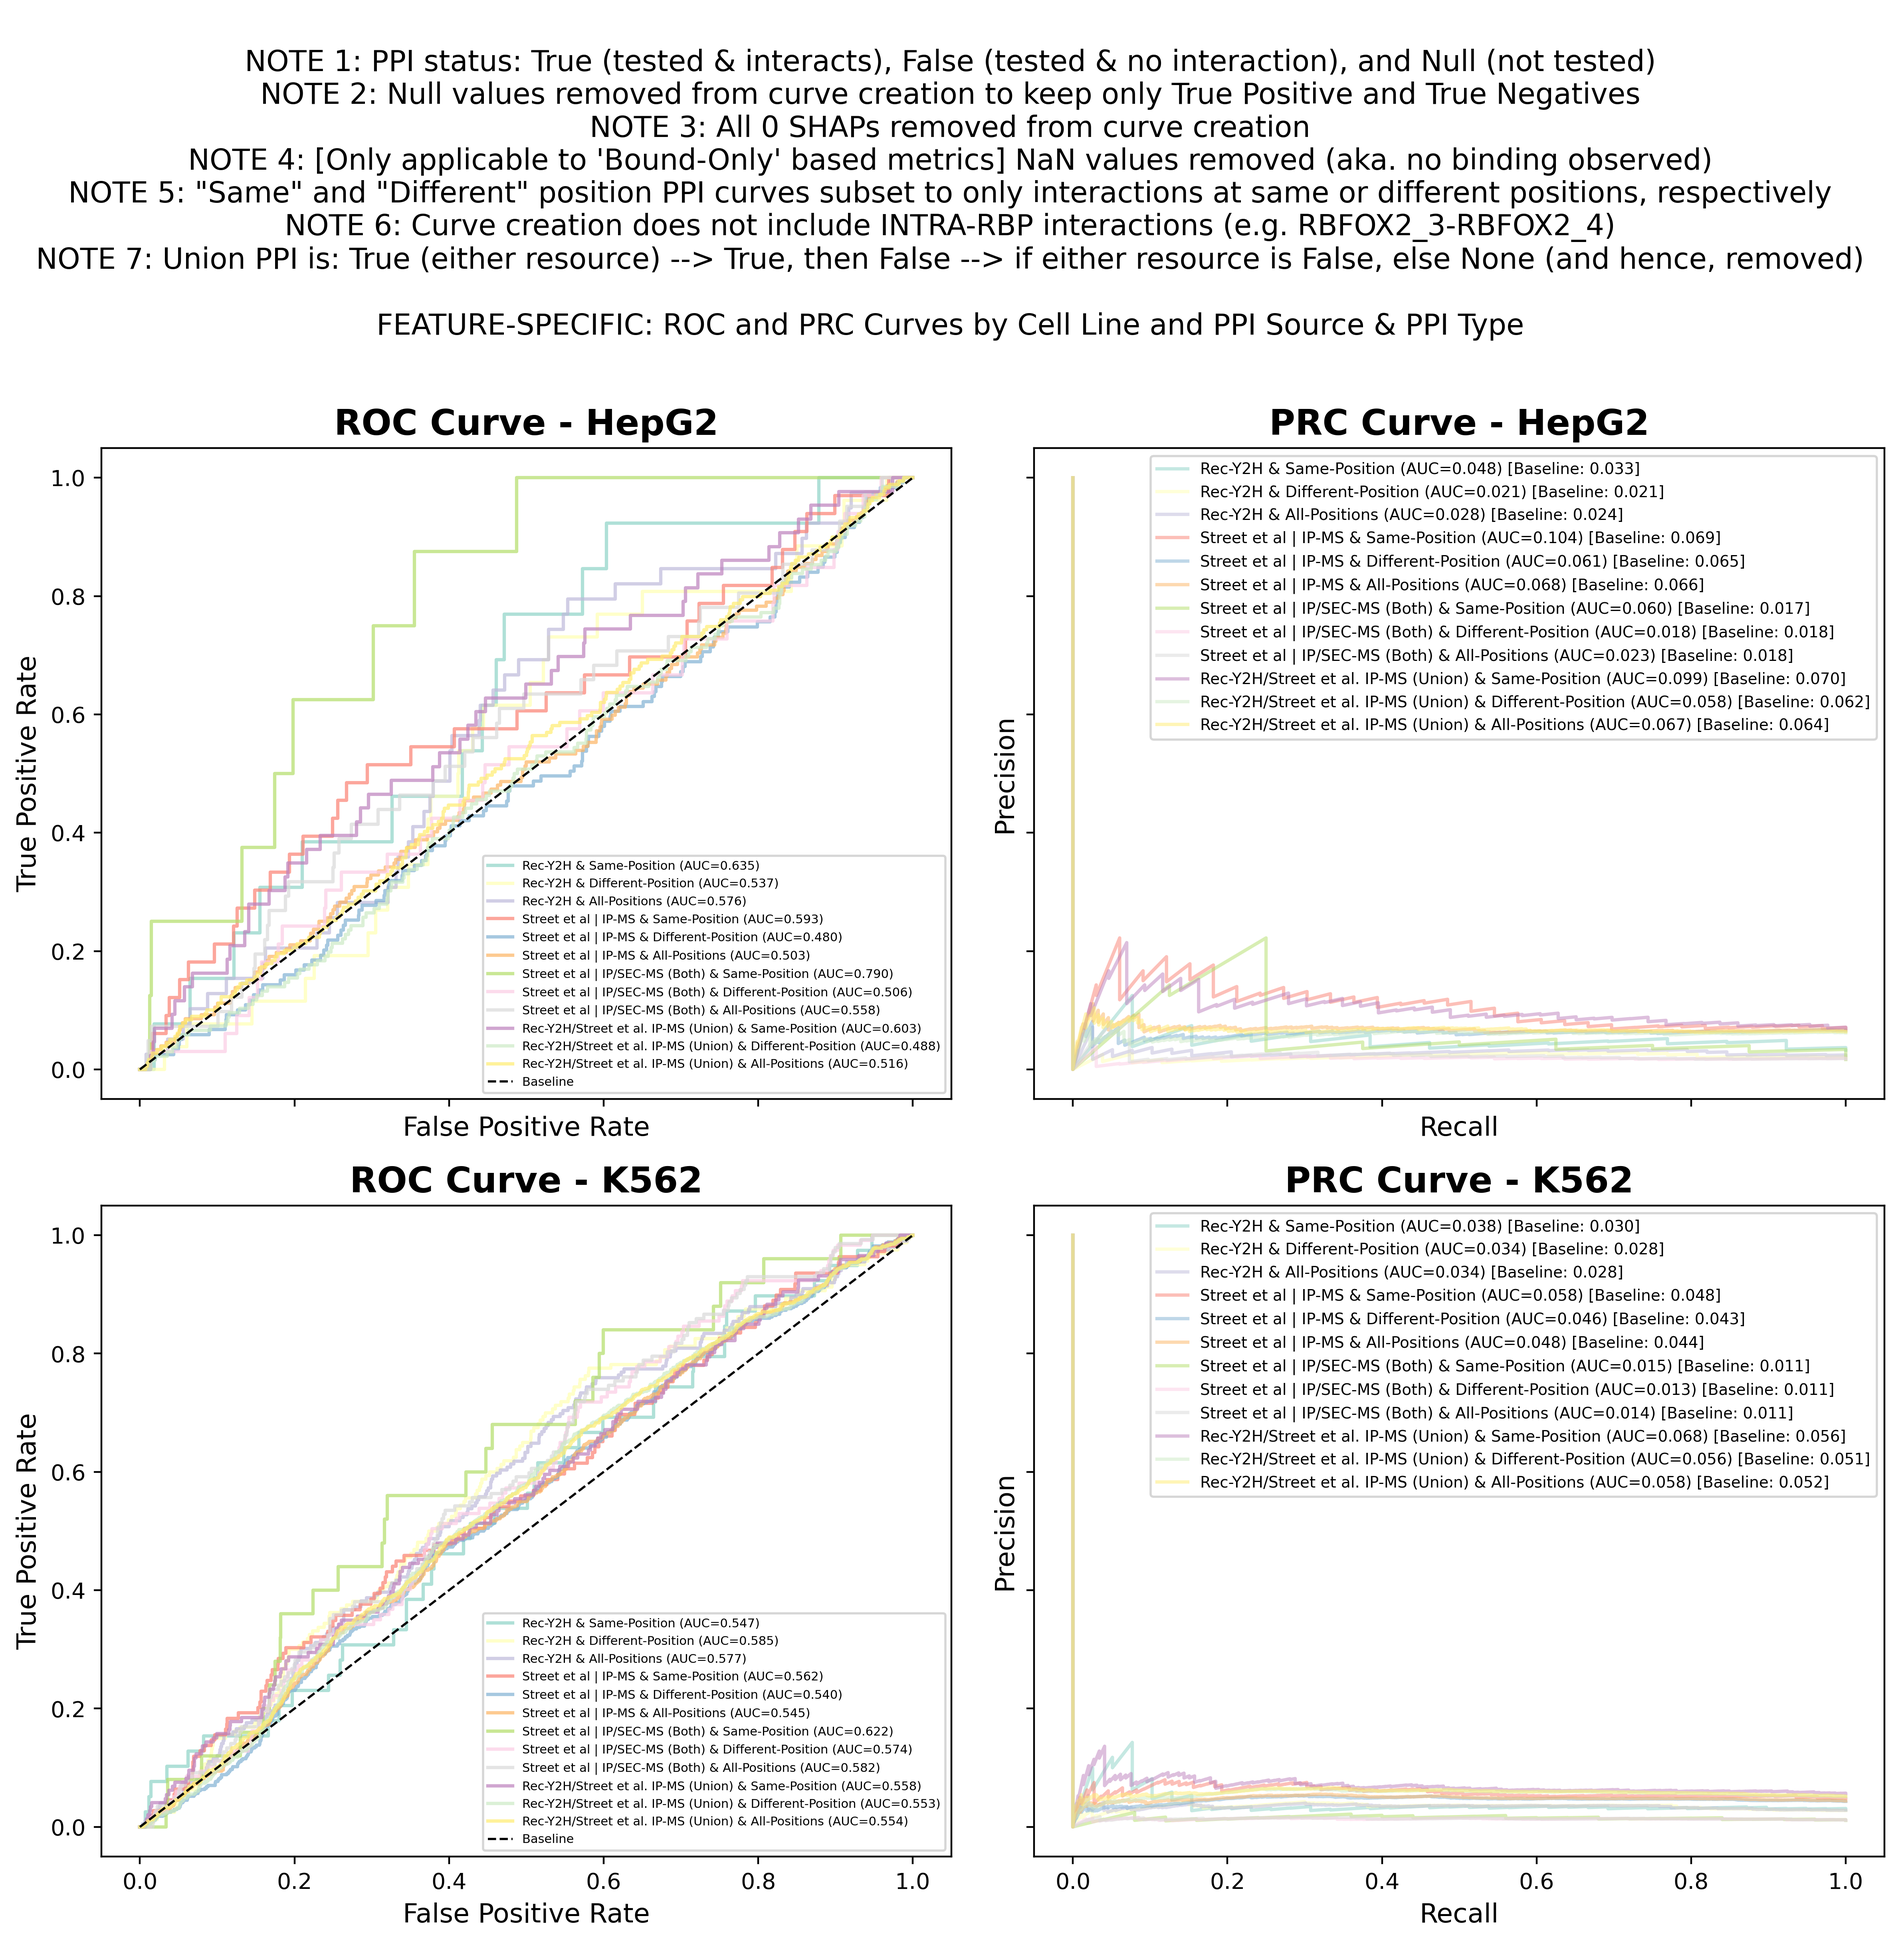
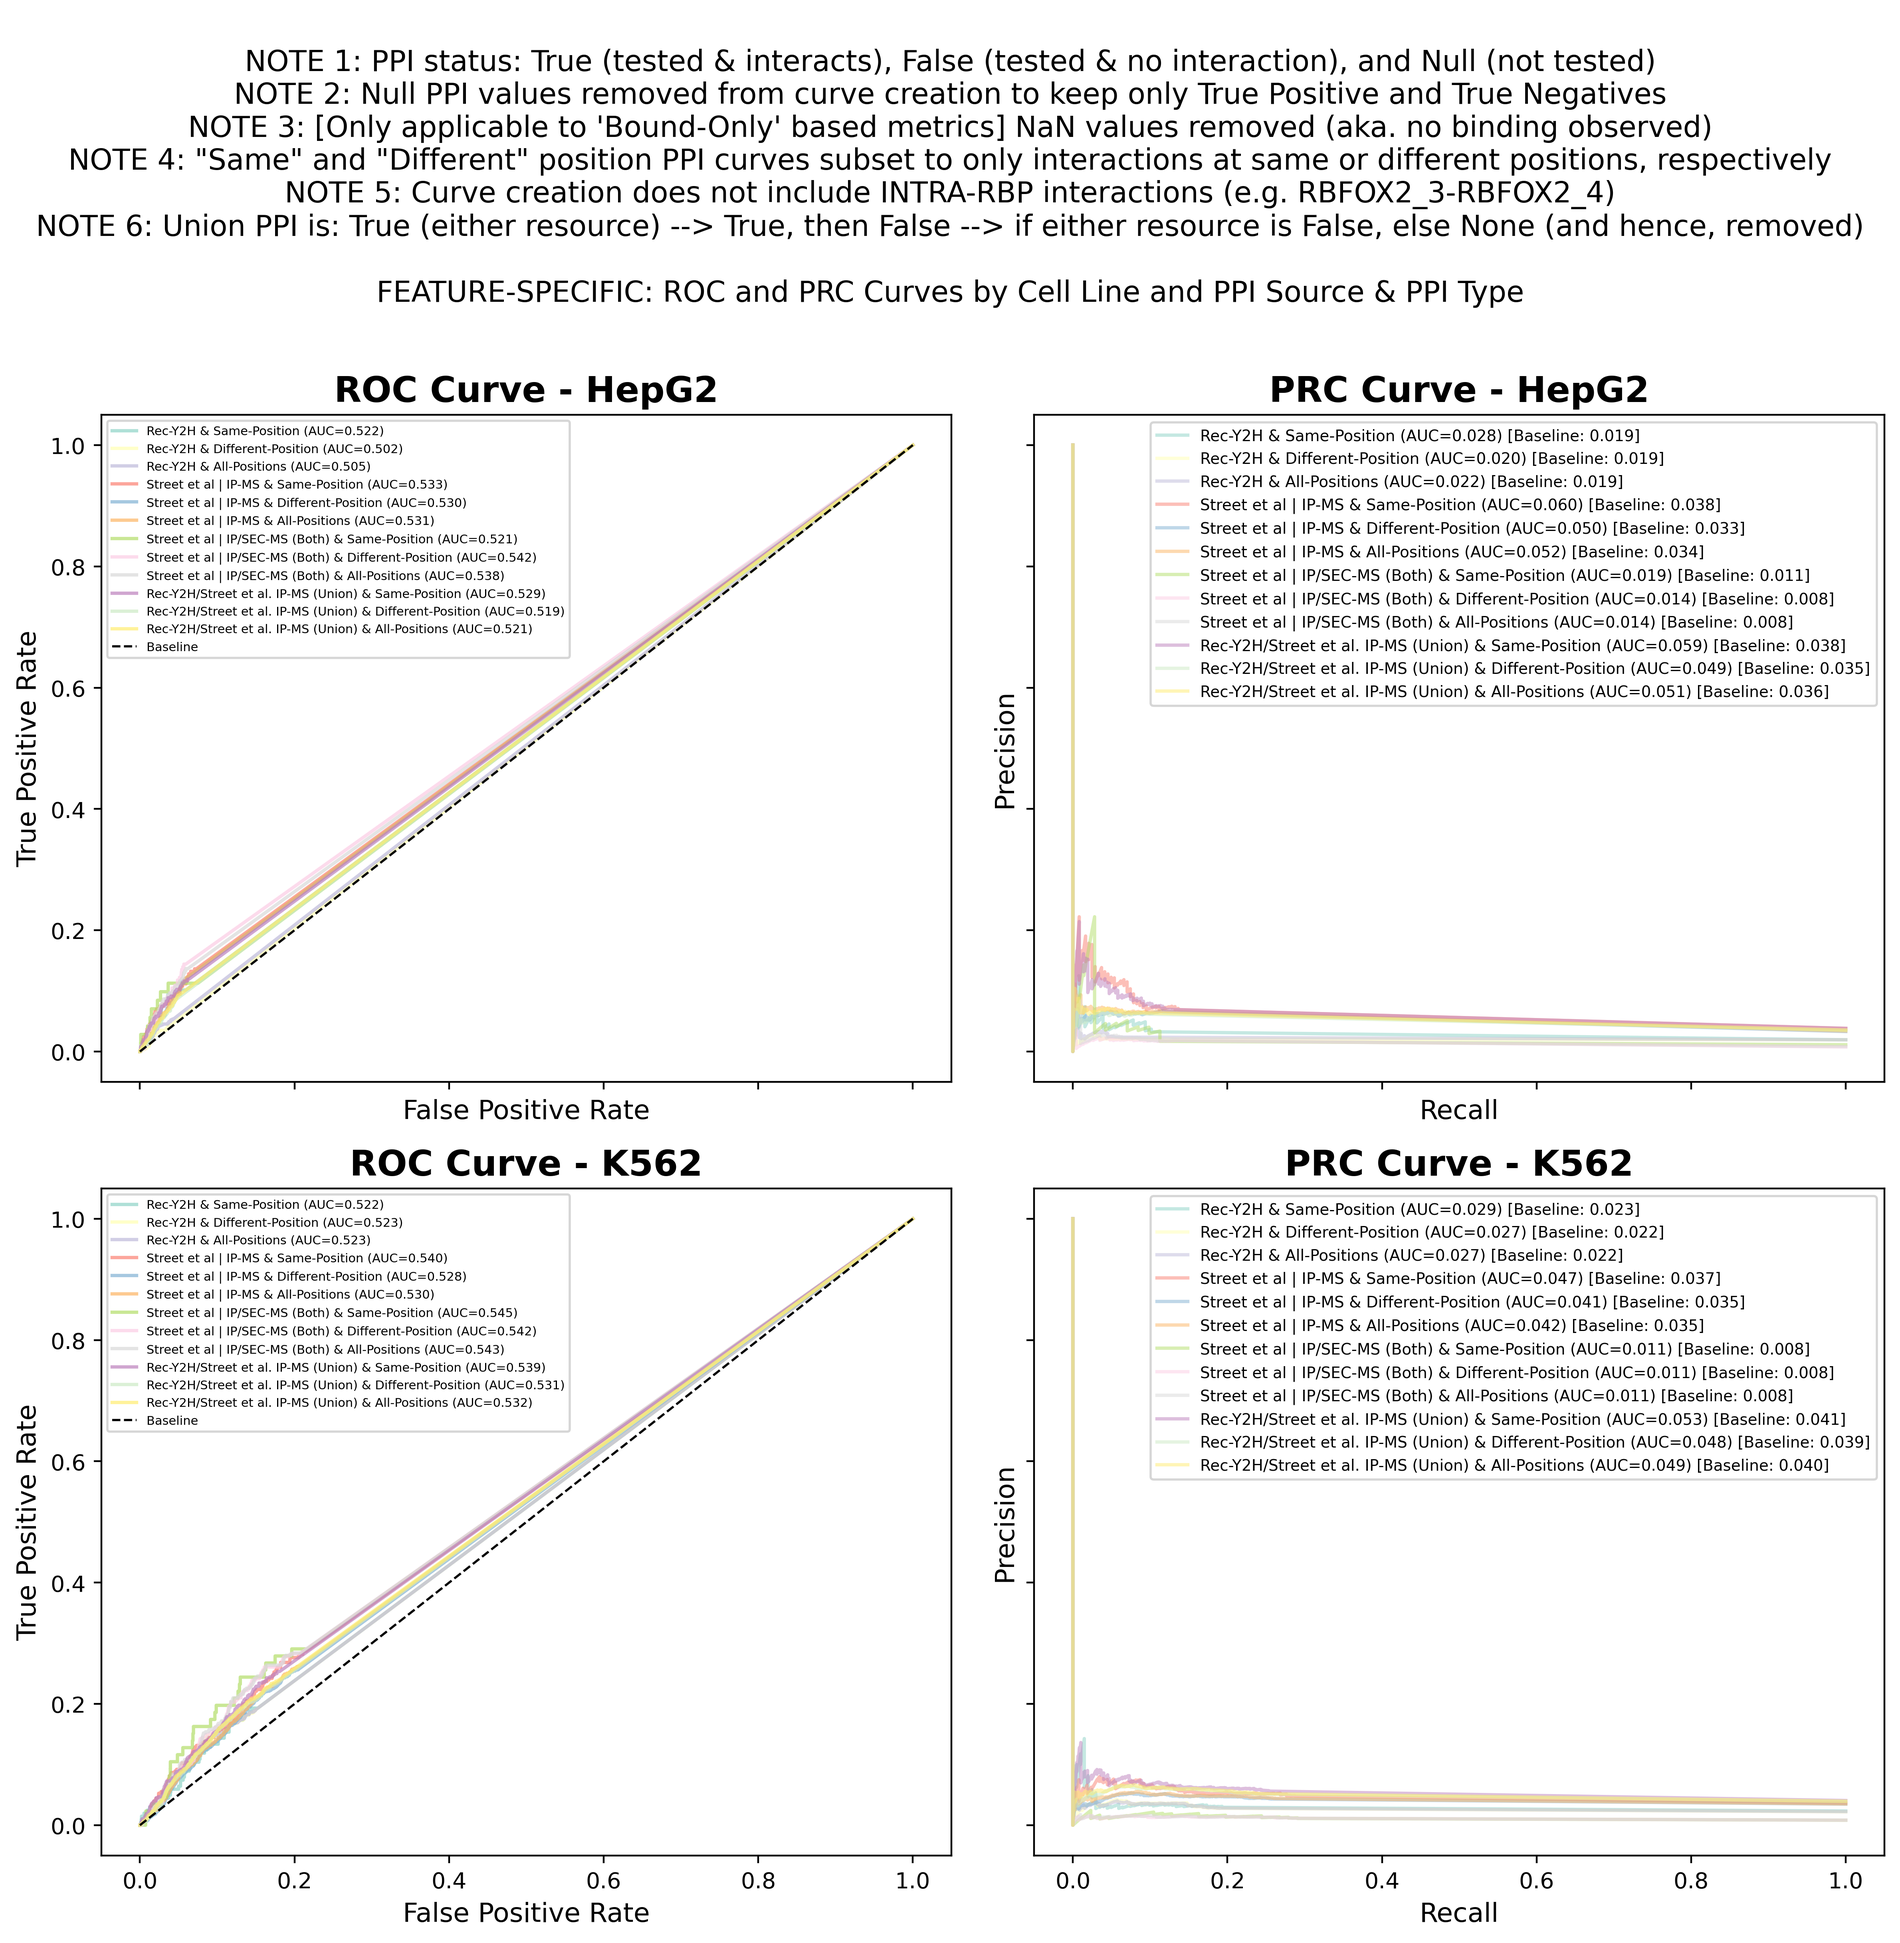
IMPORTANT CHANGE to roc and prc curves: include 0 abs. shap values and incude in table what number and percentage of shap values are 0

diff --git a/analysis/07_second_order_SHAP_analysis/2_analyze_shap_interaction_values/code/2_second_order_shap_analysis.py b/analysis/07_second_order_SHAP_analysis/2_analyze_shap_interaction_values/code/2_second_order_shap_analysis.py
@@ -1400,8 +1400,6 @@ class SecondOrderShapNetworkAnalyzer:
                             # Remove rows where "Abs. SHAP Value" is NaN
                             # This occurs for "Bound-Only" metrics when there was no binding observed
                             curve_input = curve_input.filter(~pl.col("Abs. SHAP Value").is_nan())  
-                            # Remove rows where "Abs. SHAP Value" is 0
-                            curve_input = curve_input.filter(pl.col("Abs. SHAP Value") > 0)
                             # Drop all columns in ppi_sources from curve_input
                             curve_input = curve_input.drop(ppi_sources)
 
@@ -1422,15 +1420,19 @@ class SecondOrderShapNetworkAnalyzer:
                             
                             # Assert no nulls in the entire dataframe
                             assert curve_input.null_count().sum_horizontal().item() == 0, "Nulls found in the dataframe."
-                            # Assert that there are no 0 or negative values in "Abs. SHAP Value"
-                            assert (curve_input["Abs. SHAP Value"] > 0).all(), "'Abs. SHAP Value' contains 0 or negative values."
+
+                            # assert at least one row with 0 "Abs. SHAP Value"
+                            zero_abs_shap_rows = (curve_input["Abs. SHAP Value"] == 0).sum()
+                            assert zero_abs_shap_rows > 0, f"Expected rows with 0 'Abs. SHAP Value', found none for {ppi_source} & {ppi_type}."
+
+                            # Assert that there are no negative values in "Abs. SHAP Value"
+                            assert (curve_input["Abs. SHAP Value"] >= 0).all(), "'Abs. SHAP Value' contains negative values."
                             # Assert every value in "PPI" is exactly True or False (boolean)
                             assert all(val == True or val == False for val in curve_input["PPI"].to_list()), "Non-boolean values found in 'PPI' column."
                             # Assert that there is at least one True value in the "PPI" column
                             assert curve_input["PPI"].sum() > 0, f"No True values found in 'PPI' column for {ppi_source} & {ppi_type}"
 
-
-                            logger.info(f"Cell line: {cell_line}, PPI source: {ppi_source}, PPI type: {ppi_type}, Curve: {curve_type}, N points: {curve_input.shape[0]}")
+                            logger.info(f"Cell line: {cell_line}, PPI source: {ppi_source}, PPI type: {ppi_type}, Curve: {curve_type}, # points: {curve_input.shape[0]}")
 
                             y_true = curve_input["PPI"].to_numpy()
                             y_score = curve_input["Abs. SHAP Value"].to_numpy()
@@ -1451,6 +1453,8 @@ class SecondOrderShapNetworkAnalyzer:
                                     "# Rows as % of All INTER-RBP Interaction Effects": (curve_input.shape[0] / table.filter(pl.col("Cell Line") == cell_line).shape[0]) * 100,
                                     "ROC Input Table: # True PPIs": curve_input["PPI"].sum(), 
                                     "% Rows w/ True PPI": (curve_input["PPI"].sum() / curve_input.shape[0]) * 100,
+                                    "# Rows w/ 0 Abs. SHAP Value": zero_abs_shap_rows,
+                                    "% Rows w/ 0 Abs. SHAP Value": (zero_abs_shap_rows / curve_input.shape[0]) * 100
                                 }
                                 
                                 for thresh in self.CONFIG["SHAP_PERCENTILE_THRESHOLDS"]:
@@ -1489,18 +1493,17 @@ class SecondOrderShapNetworkAnalyzer:
                     ax.legend(loc="best", fontsize=legend_fontsize, frameon=True)
             
             if plot_type == "RBP-SPECIFIC_MAX_VALUE":
-                note = "\nNOTE 8: RBP-Specific takes max SHAP val per unique RBP pair within Same, or Different, or All Positions"
+                note = "\nNOTE 7: RBP-Specific takes max SHAP val per unique RBP pair within Same, or Different, or All Positions"
             else: 
                 note = ""
 
             fig.suptitle(
                 "\nNOTE 1: PPI status: True (tested & interacts), False (tested & no interaction), and Null (not tested)" + 
-                "\nNOTE 2: Null values removed from curve creation to keep only True Positive and True Negatives" +
-                "\nNOTE 3: All 0 SHAPs removed from curve creation" +
-                "\nNOTE 4: [Only applicable to 'Bound-Only' based metrics] NaN values removed (aka. no binding observed)" +
-                '\nNOTE 5: "Same" and "Different" position PPI curves subset to only interactions at same or different positions, respectively' +
-                "\nNOTE 6: Curve creation does not include INTRA-RBP interactions (e.g. RBFOX2_3-RBFOX2_4)" +
-                "\nNOTE 7: Union PPI is: True (either resource) --> True, then False --> if either resource is False, else None (and hence, removed)" +
+                "\nNOTE 2: Null PPI values removed from curve creation to keep only True Positive and True Negatives" +
+                "\nNOTE 3: [Only applicable to 'Bound-Only' based metrics] NaN values removed (aka. no binding observed)" +
+                '\nNOTE 4: "Same" and "Different" position PPI curves subset to only interactions at same or different positions, respectively' +
+                "\nNOTE 5: Curve creation does not include INTRA-RBP interactions (e.g. RBFOX2_3-RBFOX2_4)" +
+                "\nNOTE 6: Union PPI is: True (either resource) --> True, then False --> if either resource is False, else None (and hence, removed)" +
                 note +
                 f"\n\n{plot_type}: ROC and PRC Curves by Cell Line and PPI Source & PPI Type", 
                 fontsize=13, y=1.01
